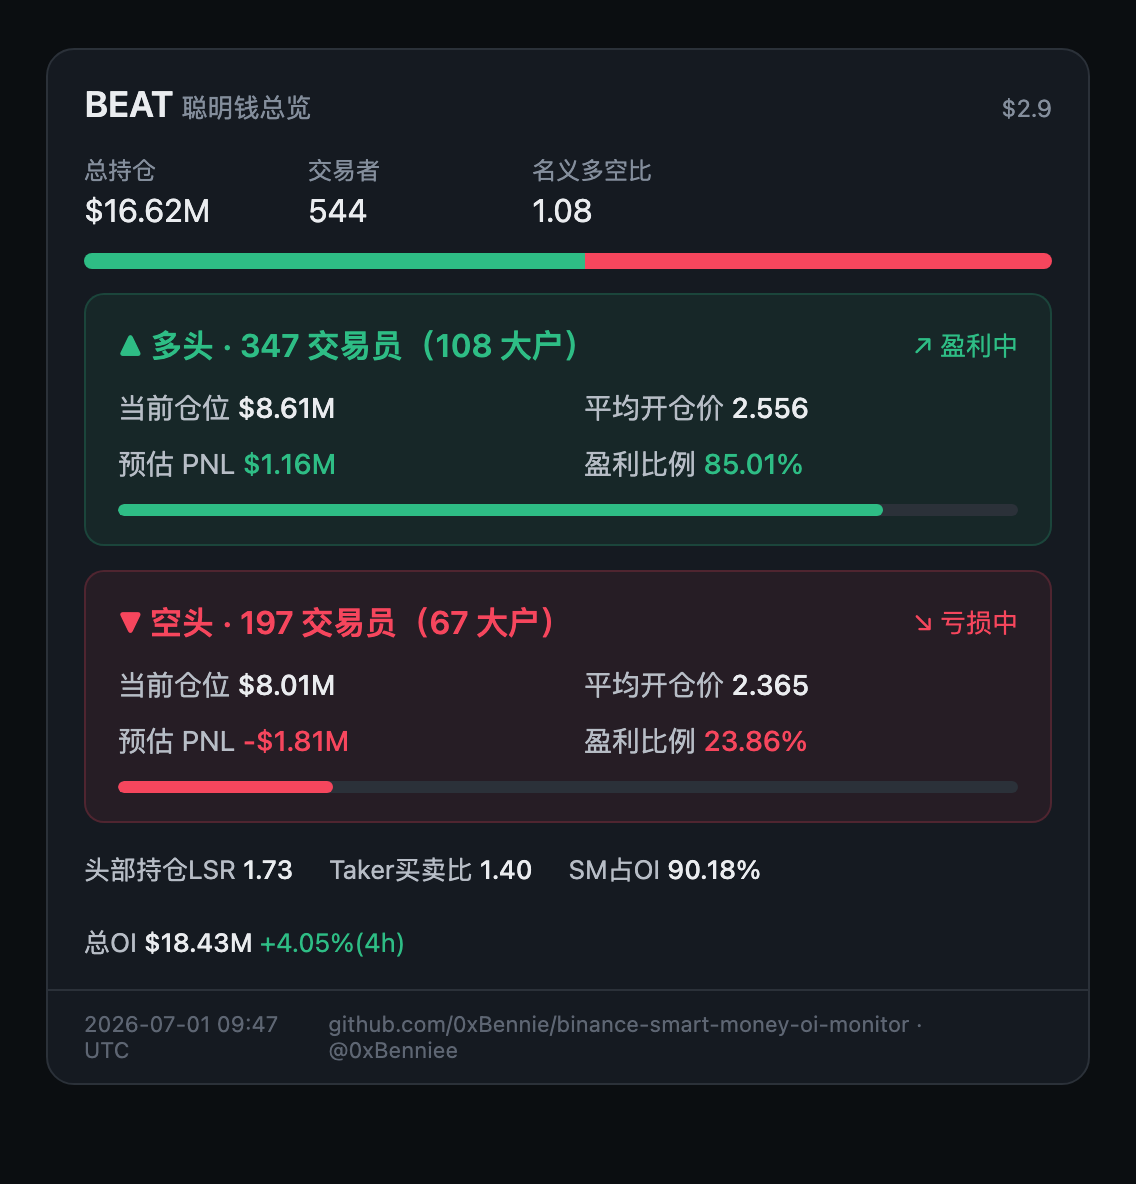
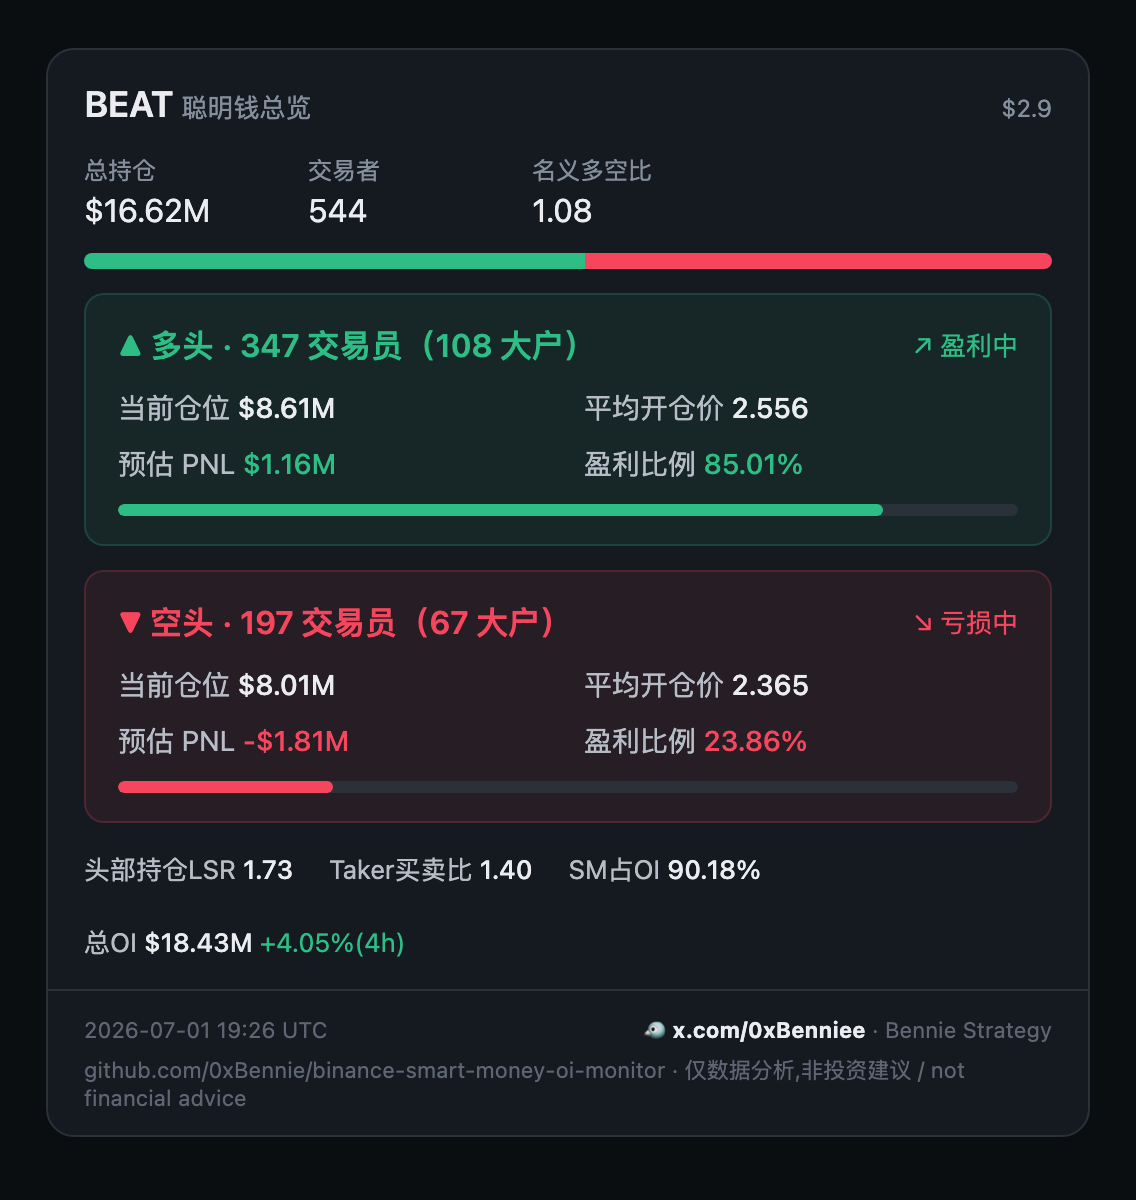
feat(1.6.2): disclaimer + baked-in X promo on the shareable cards
The disclaimer was only on the JSON tool outputs, not on the surfaces people
actually screenshot. Now baked into every shareable card:
- render_panel footer: 🐦 x.com/0xBenniee · Bennie Strategy + '仅数据分析,非投资建议 / not financial advice'
- format.ts (Telegram 巨鲸总览 card): same X promo + disclaimer footer line
- render_push MCP output: disclaimer field
Regenerated docs/panel-preview.png to match. +test assertions (panel + format).

TS 44 tests, tsc clean; dist verified. Version 1.6.2.

diff --git a/src/panel.ts b/src/panel.ts
@@ -168,9 +168,12 @@ export function renderPanelHtml(d: PanelData): string {
       <span>总OI <b style="color:#eaecef;font-weight:500">${fmtUsd(d.oiNowUsd)}</b> <span style="color:${(d.oiChg4h ?? 0) >= 0 ? '#2ebd85' : '#f6465d'}">${fmtChg(d.oiChg4h)}(4h)</span></span>
     </div>
   </div>
-  <div style="padding:10px 18px;border-top:1px solid #2b3139;display:flex;justify-content:space-between;color:#5e6673;font-size:11px">
-    <span>${when}</span>
-    <span>github.com/0xBennie/binance-smart-money-oi-monitor · @0xBenniee</span>
+  <div style="padding:12px 18px;border-top:1px solid #2b3139;color:#5e6673;font-size:11px">
+    <div style="display:flex;justify-content:space-between;align-items:center">
+      <span>${when}</span>
+      <span>🐦 <b style="color:#eaecef">x.com/0xBenniee</b> · Bennie Strategy</span>
+    </div>
+    <div style="margin-top:5px">github.com/0xBennie/binance-smart-money-oi-monitor · 仅数据分析,非投资建议 / not financial advice</div>
   </div>
 </div>
 </body></html>`;

diff --git a/test/format.test.ts b/test/format.test.ts
@@ -45,3 +45,9 @@ test('missing price does not crash or emit NaN (derives from OI)', () => {
   assert.match(html, /BEAT/);
   assert.ok(!html.includes('NaN'));
 });
+
+test('push card footer carries the X promo + not-advice disclaimer', () => {
+  const html = formatSmartMoneyPush({ symbol: 'BEATUSDT', sm, oi, price: 2.9 });
+  assert.ok(html.includes('x.com/0xBenniee'), 'X/Twitter promo on the shared TG card');
+  assert.ok(html.includes('非投资建议') || html.includes('not financial advice'), 'disclaimer on the TG card');
+});

diff --git a/test/panel.test.ts b/test/panel.test.ts
@@ -79,9 +79,12 @@ test('zero shorts → ratio null, avg-entry 0 → pnl null (no fabricated PNL)',
   assert.equal(d.long.pnlUsd, null, 'no PNL when avg entry is 0');
 });
 
-test('footer carries a discoverable repo URL for shared screenshots', () => {
+test('footer carries repo URL, the X/Twitter promo, and a not-advice disclaimer', () => {
   const html = renderPanelHtml(computePanel(sm, 2.90));
   assert.ok(html.includes('github.com/0xBennie/binance-smart-money-oi-monitor'), 'repo URL in footer');
+  assert.ok(html.includes('x.com/0xBenniee'), 'X/Twitter promo baked into the card');
+  assert.ok(html.includes('非投资建议') || html.includes('not financial advice'), 'disclaimer on the shareable card');
+  assert.ok(!/https?:\/\//.test(html), 'still self-contained (no external URLs)');
 });
 
 test('absurdly long ticker is capped, not rendered whole', () => {

diff --git a/test/mcp-core.test.ts b/test/mcp-core.test.ts
@@ -17,8 +17,8 @@ test('tools/list exposes all five+ tools including render_panel and render_push'
 
 test('initialize reports serverInfo version 1.3.0', async () => {
   const resp: any = await handle({ jsonrpc: '2.0', id: 2, method: 'initialize' });
-  assert.equal(resp.result.serverInfo.version, '1.6.1');
-  assert.equal(SERVER_INFO.version, '1.6.1');
+  assert.equal(resp.result.serverInfo.version, '1.6.2');
+  assert.equal(SERVER_INFO.version, '1.6.2');
 });
 
 test('tools/call marks isError=true when a tool returns an error result', async () => {

diff --git a/src/mcp-core.ts b/src/mcp-core.ts
@@ -16,7 +16,7 @@ import { getFundingInfo, getFundingIntervalHours, fundingCountdownString } from 
 import { fundingCost } from './funding.js';
 import { normalizeSymbol } from './symbol.js';
 
-export const SERVER_INFO = { name: 'binance-smart-money', version: '1.6.1' };
+export const SERVER_INFO = { name: 'binance-smart-money', version: '1.6.2' };
 export const PROTOCOL_VERSION = '2025-06-18';
 // Auto-attached to every analysis result. This tool reports on-chain/exchange data
 // and structure — it deliberately does NOT emit buy/sell or directional signals.
@@ -174,6 +174,7 @@ async function toolRenderPush(args: any) {
     symbol,
     html,
     note: 'Telegram-ready message body (parse_mode: HTML) — the compact 巨鲸总览 card. Send it via the Bot API sendMessage.',
+    disclaimer: DISCLAIMER,
   };
 }
 

diff --git a/src/format.ts b/src/format.ts
@@ -145,6 +145,8 @@ export function formatSmartMoneyPush(input: FormatterInput): string {
     lines.push('');
     lines.push(`<i>数据时间 ${new Date(sm.ts).toISOString().slice(0, 19).replace('T', ' ')} UTC</i>`);
   }
+  lines.push('');
+  lines.push('<i>🐦 x.com/0xBenniee · 仅数据分析,非投资建议 / not financial advice</i>');
 
   return lines.join('\n');
 }